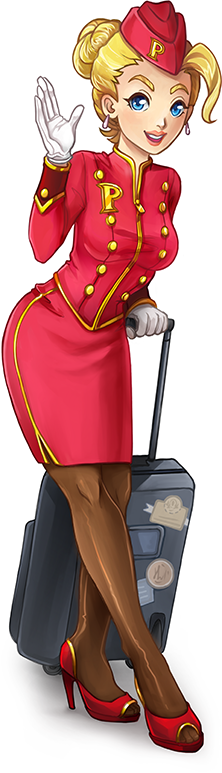
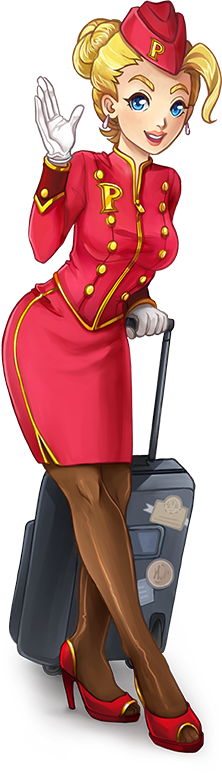
Fixed one escaped mutant in ImportConnector::createExceptionHandler. Fixed some grammar errors in Readme. Updated Porter graphic with transparent background.

diff --git a/test/Integration/Connector/ImportConnectorTest.php b/test/Integration/Connector/ImportConnectorTest.php
@@ -10,9 +10,7 @@ use ScriptFUSION\Porter\Connector\AsyncDataSource;
 use ScriptFUSION\Porter\Connector\Connector;
 use ScriptFUSION\Porter\Connector\DataSource;
 use ScriptFUSION\Porter\Connector\ImportConnector;
-use ScriptFUSION\Porter\Connector\Recoverable\RecoverableExceptionHandler;
 use ScriptFUSION\Porter\Connector\Recoverable\StatelessRecoverableExceptionHandler;
-use ScriptFUSION\Retry\FailingTooHardException;
 use ScriptFUSIONTest\FixtureFactory;
 use ScriptFUSIONTest\Stubs\TestRecoverableException;
 use ScriptFUSIONTest\Stubs\TestRecoverableExceptionHandler;
@@ -64,7 +62,7 @@ final class ImportConnectorTest extends TestCase
             $connector = FixtureFactory::buildImportConnector(
                 \Mockery::mock(Connector::class)
                     ->shouldReceive('fetch')
-                    ->andReturnUsing($this->createExceptionThrowingClosure())
+                    ->andReturnUsing(self::createExceptionThrowingClosure())
                     ->getMock(),
                 $handler
             ),
@@ -97,9 +95,7 @@ final class ImportConnectorTest extends TestCase
         self::assertSame(
             $handler,
             \Closure::bind(
-                function (): RecoverableExceptionHandler {
-                    return $this->userExceptionHandler;
-                },
+                fn () => $this->userExceptionHandler,
                 $connector,
                 $connector
             )()
@@ -118,14 +114,13 @@ final class ImportConnectorTest extends TestCase
                 ->shouldReceive('fetch')
                 ->andThrow(new TestRecoverableException)
                 ->getMock(),
-            new StatelessRecoverableExceptionHandler(static function () {
-                return false;
-            })
+            new StatelessRecoverableExceptionHandler(fn () => false)
         )->fetch($this->source);
     }
 
     /**
-     * Tests that when a user recoverable exception handler returns a promise, the promise is resolved.
+     * Tests that when a user recoverable exception handler throws an exception, the handler's exception can be
+     * captured.
      */
     public function testAsyncUserRecoverableExceptionHandler(): void
     {
@@ -134,20 +129,21 @@ final class ImportConnectorTest extends TestCase
                 ->shouldReceive('fetchAsync')
                 ->andThrow(new TestRecoverableException)
                 ->getMock(),
-            self::createAsyncRecoverableExceptionHandler()
+            new StatelessRecoverableExceptionHandler(
+                self::createExceptionThrowingClosure($exception = new TestRecoverableException)
+            )
         );
 
         try {
             $connector->fetchAsync($this->asyncSource);
-        } catch (FailingTooHardException $exception) {
-            // This is fine.
+        } catch (\Exception $e) {
+            self::assertSame($exception, $e);
         }
-
-        self::assertTrue(isset($exception));
     }
 
     /**
-     * Tests that when a resource recoverable exception handler returns a promise, the promise is resolved.
+     * Tests that when a resource recoverable exception handler throws an exception, the handler's exception can be
+     * captured.
      */
     public function testAsyncResourceRecoverableExceptionHandler(): void
     {
@@ -158,20 +154,20 @@ final class ImportConnectorTest extends TestCase
                 ->getMock()
         );
 
-        $connector->setRecoverableExceptionHandler(self::createAsyncRecoverableExceptionHandler());
+        $connector->setRecoverableExceptionHandler(new StatelessRecoverableExceptionHandler(
+            self::createExceptionThrowingClosure($exception = new TestRecoverableException)
+        ));
 
         try {
             $connector->fetchAsync($this->asyncSource);
-        } catch (FailingTooHardException $exception) {
-            // This is fine.
+        } catch (\Exception $e) {
+            self::assertSame($exception, $e);
         }
-
-        self::assertTrue(isset($exception));
     }
 
     /**
-     * Tests that when user and resource recoverable exception handlers both return promises, both promises are
-     * resolved.
+     * Tests that when user and resource recoverable exception handlers are both set, both handlers are invoked,
+     * resource handler first and user handler second.
      */
     public function testAsyncUserAndResourceRecoverableExceptionHandlers(): void
     {
@@ -180,36 +176,37 @@ final class ImportConnectorTest extends TestCase
                 ->shouldReceive('fetchAsync')
                 ->andThrow(new TestRecoverableException)
                 ->getMock(),
-            self::createAsyncRecoverableExceptionHandler()
+            new StatelessRecoverableExceptionHandler(self::createExceptionThrowingClosure($e2 = new \Exception))
         );
 
-        $connector->setRecoverableExceptionHandler(self::createAsyncRecoverableExceptionHandler());
+        $connector->setRecoverableExceptionHandler(new StatelessRecoverableExceptionHandler(
+            self::createExceptionThrowingClosure($e1 = new \Exception())
+        ));
 
         try {
             $connector->fetchAsync($this->asyncSource);
-        } catch (FailingTooHardException $exception) {
-            // This is fine.
+        } catch (\Exception $exception) {
+            self::assertSame($e1, $exception);
         }
 
-        self::assertTrue(isset($exception));
+        try {
+            $connector->fetchAsync($this->asyncSource);
+        } catch (\Exception $exception) {
+            self::assertSame($e2, $exception);
+        }
     }
 
     /**
      * Creates a closure that only throws an exception on the first invocation.
      */
-    private static function createExceptionThrowingClosure(): \Closure
+    private static function createExceptionThrowingClosure(\Exception $exception = null): \Closure
     {
-        return static function (): void {
+        return static function () use ($exception): void {
             static $invocationCount;
 
             if (!$invocationCount++) {
-                throw new TestRecoverableException;
+                throw $exception ?? new TestRecoverableException;
             }
         };
-    }
-
-    private static function createAsyncRecoverableExceptionHandler(): RecoverableExceptionHandler
-    {
-        return new StatelessRecoverableExceptionHandler(fn () => null);
     }
 }

diff --git a/test/MockFactory.php b/test/MockFactory.php
@@ -3,7 +3,6 @@ declare(strict_types=1);
 
 namespace ScriptFUSIONTest;
 
-use Amp\Future;
 use Mockery\MockInterface;
 use ScriptFUSION\Async\Throttle\Throttle;
 use ScriptFUSION\Porter\Connector\AsyncConnector;
@@ -17,6 +16,7 @@ use ScriptFUSION\Porter\Provider\Resource\AsyncResource;
 use ScriptFUSION\Porter\Provider\Resource\ProviderResource;
 use ScriptFUSION\Porter\Provider\Resource\SingleRecordResource;
 use ScriptFUSION\StaticClass;
+use function Amp\async;
 use function Amp\delay;
 
 final class MockFactory
@@ -92,7 +92,7 @@ final class MockFactory
     {
         return \Mockery::mock(Throttle::class)
             ->allows('watch')
-                ->andReturnUsing(fn (\Closure $closure, mixed ...$args) => $closure($args))
+                ->andReturnUsing(fn (\Closure $closure, mixed ...$args) => async($closure, ...$args))
                 ->byDefault()
             ->getMock()
         ;

diff --git a/README.md b/README.md
@@ -69,11 +69,11 @@ About this manual
 
 Those wishing to consume a Porter provider create one instance of `Porter` for their application and an instance of `ImportSpecification` for each data import they wish to perform. Those publishing providers must implement `Provider` and `ProviderResource`.
 
-The first half of this manual covers Porter's main API for consuming data services. The second half covers architecture, interface and implementation details for publishing data services. There's an intermission in-between so you'll know where the separation is!
+The first half of this manual covers Porter's main API for consuming data services. The second half covers architecture, interface and implementation details for publishing data services. There's an intermission in-between, so you'll know where the separation is!
 
 Text marked as `inline code` denotes literal code, as it would appear in a PHP file. For example, `Porter` refers specifically to the class of the same name within this library, whereas *Porter* refers to this project as a whole.
 
-Porter has a dual API for the synchronous and asynchronous workflow dichotomy. Almost every Porter feature has an asynchronous equivalent. You will need to choose which you prefer to use. Most examples in this manual are for the synchronous API, for brevity and simplicity, but the asynchronous version will invariably be similar. Working synchronously may be easier when getting started but you are encouraged to use the async API if you are able, to reap its benefits.
+Porter has a dual API for the synchronous and asynchronous workflow dichotomy. Almost every Porter feature has an asynchronous equivalent. You will need to choose which you prefer to use. Most examples in this manual are for the synchronous API, for brevity and simplicity, but the asynchronous version will invariably be similar. Working synchronously may be easier when getting started, but you are encouraged to use the async API if you are able, to reap its benefits.
 
 Usage
 -----
@@ -134,12 +134,12 @@ The following data flow diagram gives a high level overview of Porter's main int
 
 </div>
 
-Our application calls `Porter::import()` with an `ImportSpecification` and receives `PorterRecords` back. Everything else happens internally so we don't need to worry about it unless writing custom providers, resources or connectors.
+Our application calls `Porter::import()` with an `ImportSpecification` and receives `PorterRecords` back. Everything else happens internally, so we don't need to worry about it unless writing custom providers, resources or connectors.
 
 Import specifications
 ---------------------
 
-Import specifications specify *what* to import, *how* it should be [transformed](#transformers) and whether to use [caching](#caching). In synchronous code, create an new instance of `ImportSpecification` and pass a `ProviderResource` that specifies the resource we want to import. In Asynchronous code, create `AsyncImportSpecification` instead.
+Import specifications specify *what* to import, *how* it should be [transformed](#transformers) and whether to use [caching](#caching). In synchronous code, create a new instance of `ImportSpecification` and pass a `ProviderResource` that specifies the resource we want to import. In Asynchronous code, create `AsyncImportSpecification` instead.
 
 Options may be configured using the methods below.
 
@@ -232,14 +232,14 @@ public function transformAsync(AsyncRecordCollection $records, mixed $context): 
 
 When `transform()` or `transformAsync()` is called the transformer may iterate each record and change it in any way, including removing or inserting additional records. The record collection must be returned by the method, whether or not changes were made.
 
-Transformers should also implement the `__clone` magic method if the they store any object state, in order to facilitate deep copy when Porter clones the owning `ImportSpecification` during import.
+Transformers should also implement the `__clone` magic method if they store any object state, in order to facilitate deep copy when Porter clones the owning `ImportSpecification` during import.
 
 Filtering
 ---------
 
 Filtering provides a way to remove some records. For each record, if the specified predicate function returns `false` (or a falsy value), the record will be removed, otherwise the record will be kept. The predicate receives the current record as an array as its first parameter and context as its second parameter.
 
-In general we would like to avoid filtering because it is inefficient to import data and then immediately remove some of it, but some immature APIs do not provide a way to reduce the data set on the server, so filtering on the client is the only alternative. Filtering also invalidates the record count reported by some resources, meaning we no longer know how many records are in the collection before iteration.
+In general, we would like to avoid filtering because it is inefficient to import data and then immediately remove some of it, but some immature APIs do not provide a way to reduce the data set on the server, so filtering on the client is the only alternative. Filtering also invalidates the record count reported by some resources, meaning we no longer know how many records are in the collection before iteration.
 
 ### Example
 
@@ -330,7 +330,7 @@ Providers must implement the `Provider` interface and supply a valid connector w
 
 #### Implementation example
 
-In the following example we create a provider that only accepts `HttpConnector` instances. We also create a default connector in case one is not supplied. Note it is not always possible to create a default connector and it is perfectly valid to insist the caller supplies a connector.
+In the following example we create a provider that only accepts `HttpConnector` instances. We also create a default connector in case one is not supplied. Note it is not always possible to create a default connector, and it is perfectly valid to insist the caller supplies a connector.
 
 ```php
 final class MyProvider implements Provider
@@ -511,7 +511,7 @@ Everyone is welcome to contribute anything, from [ideas and issues][Issues] to [
 License
 -------
 
-Porter is published under the open source GNU Lesser General Public License v3.0. However, the original Porter character and artwork is copyright &copy; 2019 [Bilge](https://github.com/Bilge) and may not be reproduced or modified without express written permission.
+Porter is published under the open source GNU Lesser General Public License v3.0. However, the original Porter character and artwork is copyright &copy; 2022 [Bilge](https://github.com/Bilge) and may not be reproduced or modified without express written permission.
 
 ###### Quick links
 
